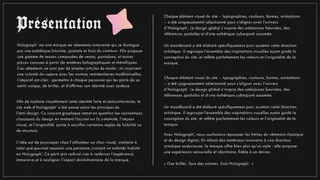
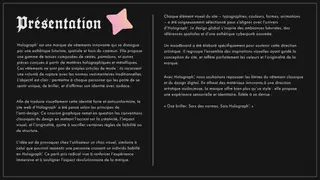
Enhance Chapter component with improved title layout and optical centering; add cap-box class for precise text alignment

Changed region(s): [[0.5, 0.5833, 0.9375, 0.8611], [0.5, 0.4167, 0.9688, 0.5556], [0.5, 0.8889, 0.7812, 0.9167]]

diff --git a/app/components/ui/Chapter.tsx b/app/components/ui/Chapter.tsx
@@ -19,12 +19,13 @@ export function Chapter({ numeral, title, id, children }: { numeral: string; tit
       <motion.header variants={fadeUp} className="mb-8 flex items-center justify-center gap-4">
         <span aria-hidden className="h-px max-w-40 flex-1 bg-ink/25" />
         {/* Sur une pastille de verre : le titre reste lisible quand une liane ou un rocher du décor passe derrière */}
-        <h2 id={`${id}-titre`} className="veil flex items-baseline gap-3 rounded-full px-5 py-2 text-ink">
-          <span className="font-display text-3xl font-light leading-none tracking-[0.04em] text-accent sm:text-4xl" aria-hidden>
+        <h2 id={`${id}-titre`} className="veil flex items-center gap-3 rounded-full px-5 py-3.5 text-ink">
+          {/* Boîtes rognées à la hauteur des capitales : ce sont les lettres, et non leurs interlignes, qui se centrent */}
+          <span className="cap-box font-display text-3xl font-light leading-none tracking-[0.04em] text-accent sm:text-4xl" aria-hidden>
             {numeral}
           </span>
           <span className="sr-only">Chapitre {numeral} : </span>
-          <span className="label-spaced">{title}</span>
+          <span className="cap-box label-spaced">{title}</span>
         </h2>
         <span aria-hidden className="h-px max-w-40 flex-1 bg-ink/25" />
       </motion.header>

diff --git a/app/globals.css b/app/globals.css
@@ -309,3 +309,8 @@ html[data-travel] *::after {
   /* Pas de zoom entre les sections : un simple fondu */
   [data-section-index] { transform: none !important; }
 }
+
+/* Texte rogné à la hauteur des capitales (titres de chapitre) : centrage optique exact entre des tailles différentes */
+.cap-box {
+  text-box: trim-both cap alphabetic;
+}
